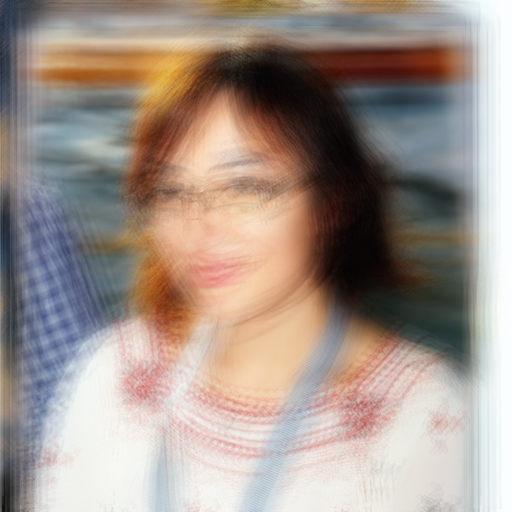
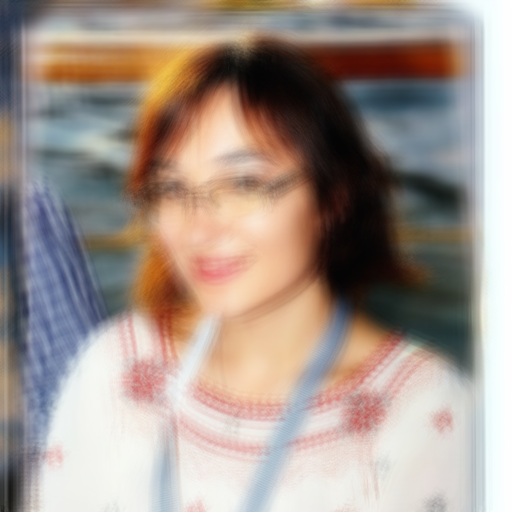
s

diff --git a/project/main.py b/project/main.py
@@ -13,7 +13,7 @@ def get_image(name):
 
 def smoothen(name, ext):
     img = get_image(f"{name}.{ext}")
-    img = apply_gauss(img, 1, 20, 10)
+    img = apply_gauss(img, 1, 50, 6)
 
     cv2.imwrite(f"assets/{name}_smoothened.png", img)
     cv2.imshow(name, img)
